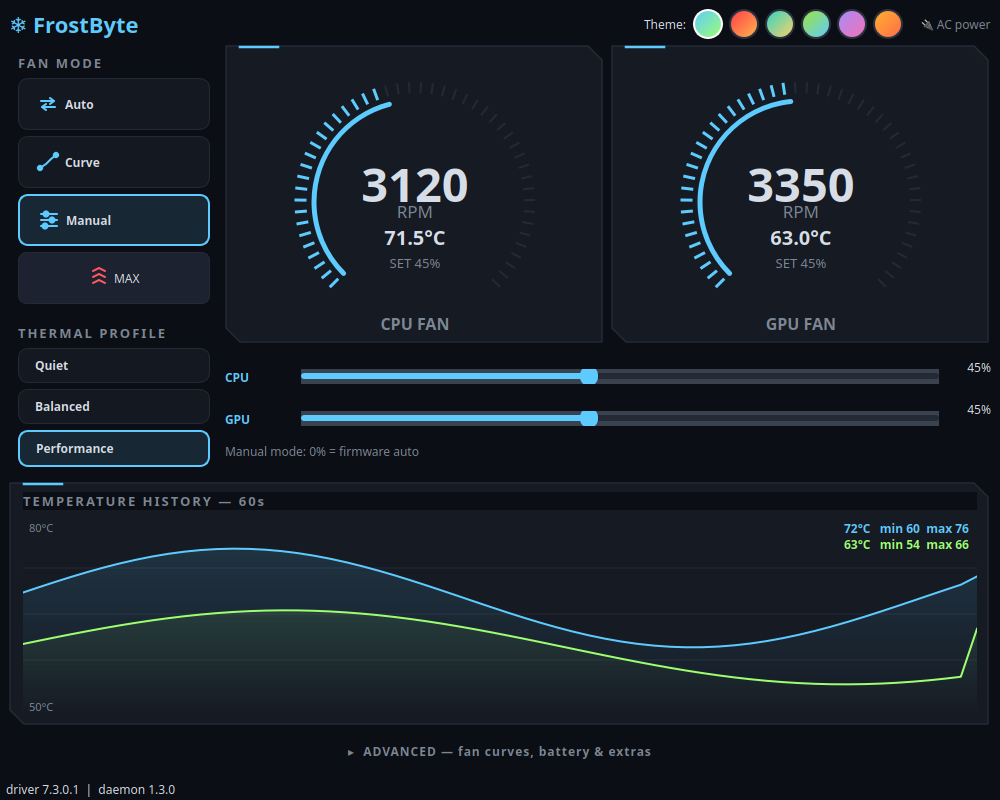
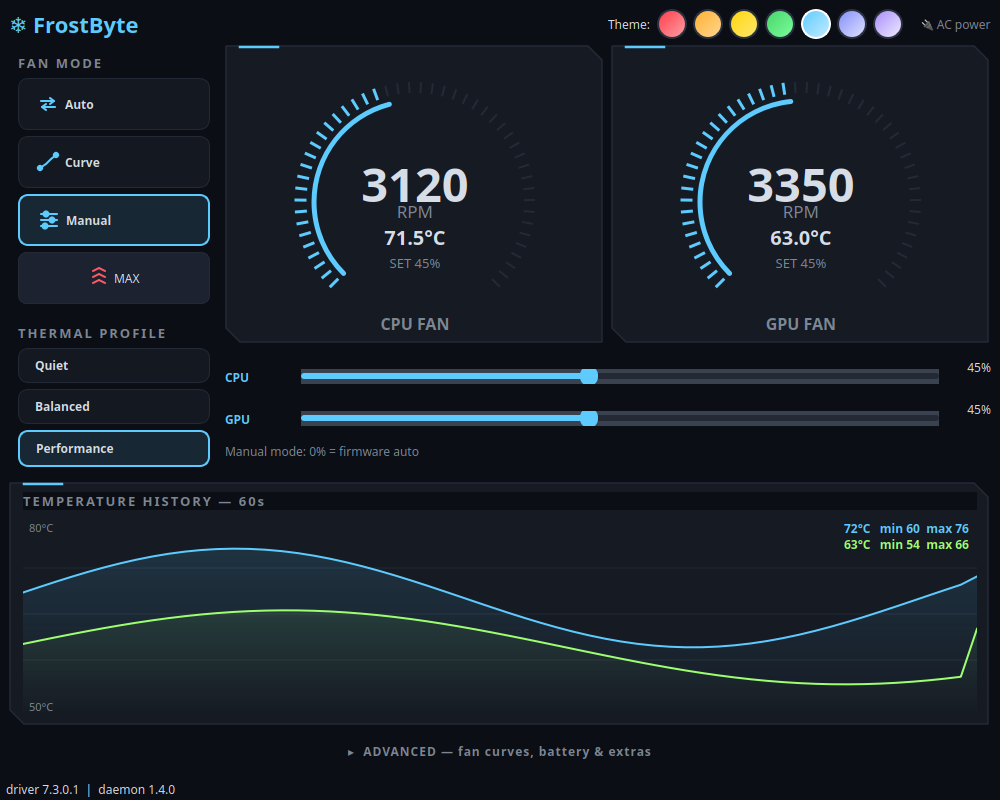
FrostByte 1.4.0 - rainbow theme roster
- Seven dark themes, one per rainbow color: Nitro Red, Ember,
  Solar Yellow (new), Volt Green (now true green), Glacier,
  Abyss Indigo (new), Ultraviolet
- Predator Teal retired
- Theme swatch dots now gradient accent -> lighter shade of the same hue,
  so every dot reads as its true color (Glacier looked greenish before)
- Stored prefs for removed themes fall back to Glacier safely

Changed region(s): [[0.62, 0.0, 0.899, 0.0625]]

diff --git a/gui/frostbyte_gui.py b/gui/frostbyte_gui.py
@@ -48,41 +48,47 @@ SINGLE_INSTANCE_NAME = f"frostbyte-gui-{os.getuid()}"
 # --- Themes (dark mode only) -------------------------------------------------
 # accent = primary highlight, accent2 = secondary (GPU), danger = warnings/MAX
 THEMES = {
-    "glacier": {
-        "label": "Glacier (default)",
-        "accent": "#5ecbff", "accent2": "#9dff70",
-        "bg": "#0b0e14", "card": "#151a23", "edge": "#232a36",
-        "text": "#d7dde6", "muted": "#7d8794", "danger": "#ff5964",
-    },
     "nitro": {
         "label": "Nitro Red",
         "accent": "#ff3b47", "accent2": "#ffb84d",
         "bg": "#100a0c", "card": "#1b1114", "edge": "#331920",
         "text": "#eeddde", "muted": "#947279", "danger": "#ff8a5c",
     },
-    "predator": {
-        "label": "Predator Teal",
-        "accent": "#2fd4c4", "accent2": "#ffd166",
-        "bg": "#090f13", "card": "#101a20", "edge": "#1e3038",
-        "text": "#d8e6e8", "muted": "#6d8b91", "danger": "#ff5964",
+    "ember": {
+        "label": "Ember",
+        "accent": "#ffb02e", "accent2": "#ff6b4a",
+        "bg": "#110d08", "card": "#1c1510", "edge": "#33261a",
+        "text": "#ede2d2", "muted": "#9a8874", "danger": "#ff5964",
+    },
+    "solar": {
+        "label": "Solar Yellow",
+        "accent": "#ffd60a", "accent2": "#ff9f1c",
+        "bg": "#121008", "card": "#1d190f", "edge": "#3a3016",
+        "text": "#efe6cf", "muted": "#9c906d", "danger": "#ff5964",
     },
     "volt": {
         "label": "Volt Green",
-        "accent": "#9ee33c", "accent2": "#5ecbff",
+        "accent": "#46d369", "accent2": "#5ecbff",
         "bg": "#0b0f08", "card": "#131a10", "edge": "#263317",
         "text": "#e4ecd8", "muted": "#81937a", "danger": "#ff5964",
+    },
+    "glacier": {
+        "label": "Glacier (default)",
+        "accent": "#5ecbff", "accent2": "#9dff70",
+        "bg": "#0b0e14", "card": "#151a23", "edge": "#232a36",
+        "text": "#d7dde6", "muted": "#7d8794", "danger": "#ff5964",
+    },
+    "abyss": {
+        "label": "Abyss Indigo",
+        "accent": "#818cf8", "accent2": "#38bdf8",
+        "bg": "#0a0b14", "card": "#14162a", "edge": "#272b47",
+        "text": "#dfe2f2", "muted": "#7e84a8", "danger": "#ff5964",
     },
     "ultraviolet": {
         "label": "Ultraviolet",
         "accent": "#a78bfa", "accent2": "#f472b6",
         "bg": "#0d0a14", "card": "#171126", "edge": "#2b2142",
         "text": "#e5dff0", "muted": "#897ea6", "danger": "#ff5964",
-    },
-    "ember": {
-        "label": "Ember",
-        "accent": "#ffb02e", "accent2": "#ff6b4a",
-        "bg": "#110d08", "card": "#1c1510", "edge": "#33261a",
-        "text": "#ede2d2", "muted": "#9a8874", "danger": "#ff5964",
     },
 }
 DEFAULT_THEME = "glacier"
@@ -670,10 +676,11 @@ class MainWindow(QMainWindow):
             sw.setCheckable(True)
             sw.setToolTip(t["label"])
             sw.setFixedSize(30, 30)
+            lite = QColor(t["accent"]).lighter(140).name()
             sw.setStyleSheet(
                 "QPushButton { border-radius: 15px; border: 2px solid #2a3140;"
                 f" background: qlineargradient(x1:0, y1:0, x2:1, y2:1,"
-                f" stop:0 {t['accent']}, stop:1 {t['accent2']}); }}"
+                f" stop:0 {t['accent']}, stop:1 {lite}); }}"
                 "QPushButton:checked { border: 2px solid #ffffff; }")
             sw.clicked.connect(lambda _c, k=key: self.apply_theme(k))
             self.theme_btns[key] = sw

diff --git a/common/frostbyte_common.py b/common/frostbyte_common.py
@@ -23,7 +23,7 @@ import os
 import socket
 import sys
 
-FROSTBYTE_VERSION = "1.3.0"
+FROSTBYTE_VERSION = "1.4.0"
 
 SOCKET_PATH = "/run/frostbyte.sock"
 CONFIG_PATH = "/etc/frostbyte/frostbyte.conf"

diff --git a/README.md b/README.md
@@ -34,8 +34,9 @@ DKMS package that rebuilds itself on every kernel update.
 - 🔘 **NitroSense key support** — the dedicated **N** key toggles the FrostByte
   window, exactly like on Windows (works under X11 and Wayland, no desktop
   shortcut binding needed)
-- 🎨 **Six dark themes** — Glacier, Nitro Red, Predator Teal, Volt Green,
-  Ultraviolet, Ember — switchable live from the header swatches
+- 🎨 **Seven dark themes — one per rainbow color** — Nitro Red, Ember,
+  Solar Yellow, Volt Green, Glacier, Abyss Indigo, Ultraviolet —
+  switchable live from the header swatches
 - 🔄 **Survives kernel updates** — DKMS rebuilds the driver automatically
 
 ## How it works
